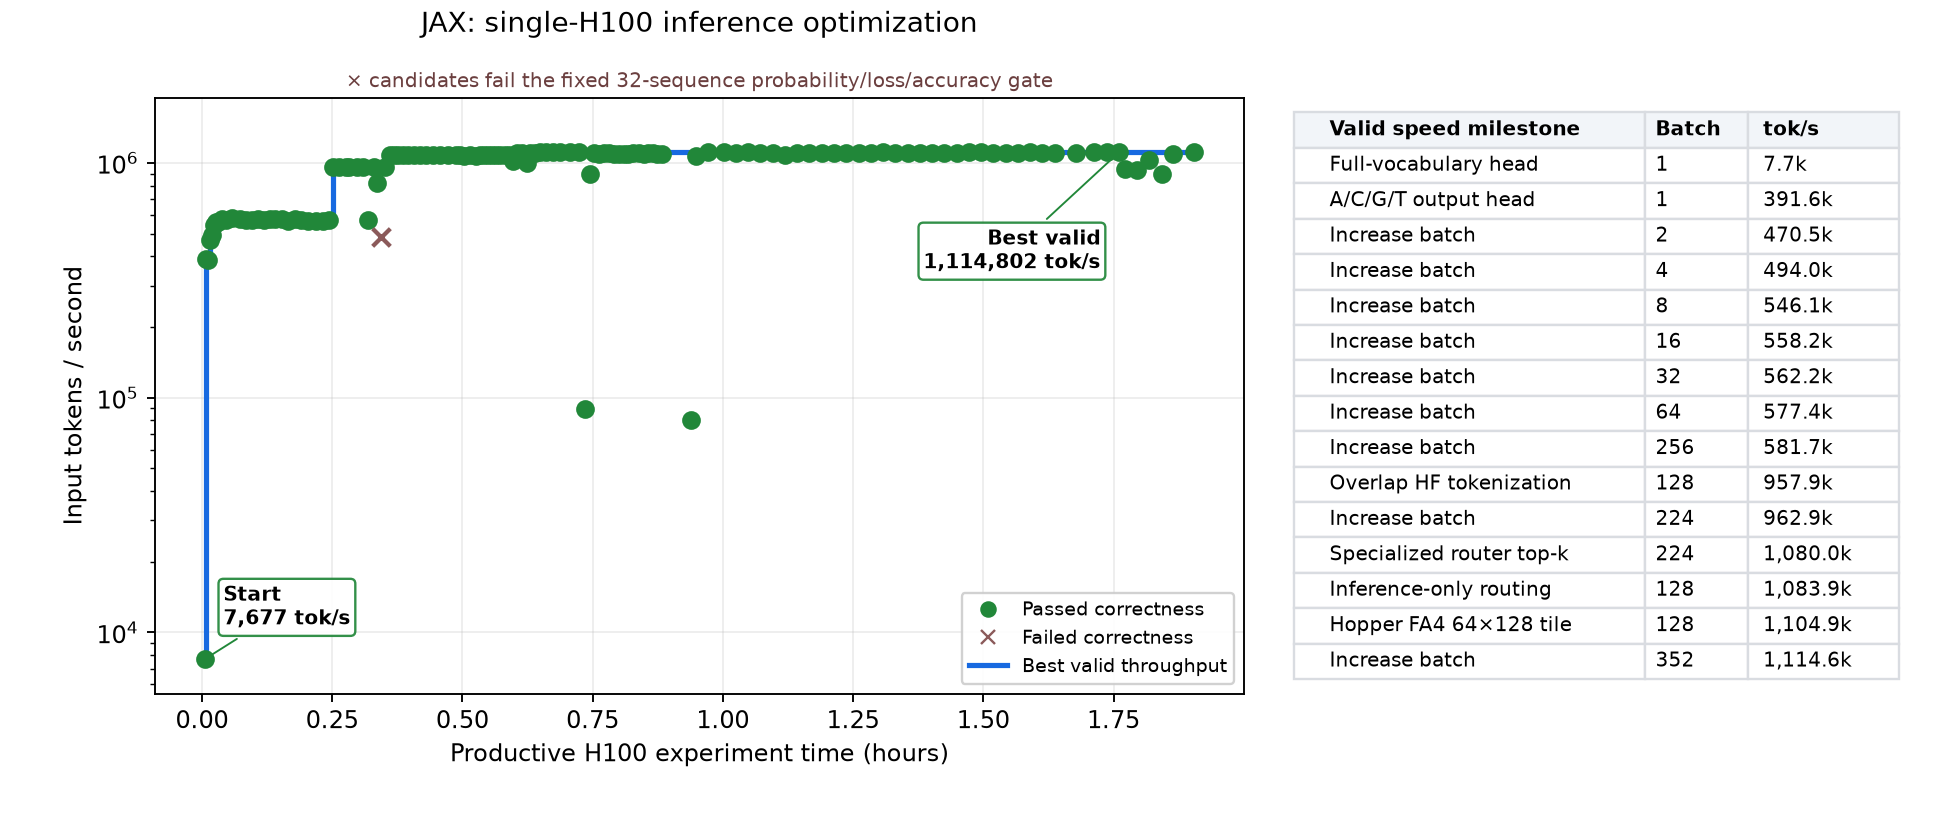
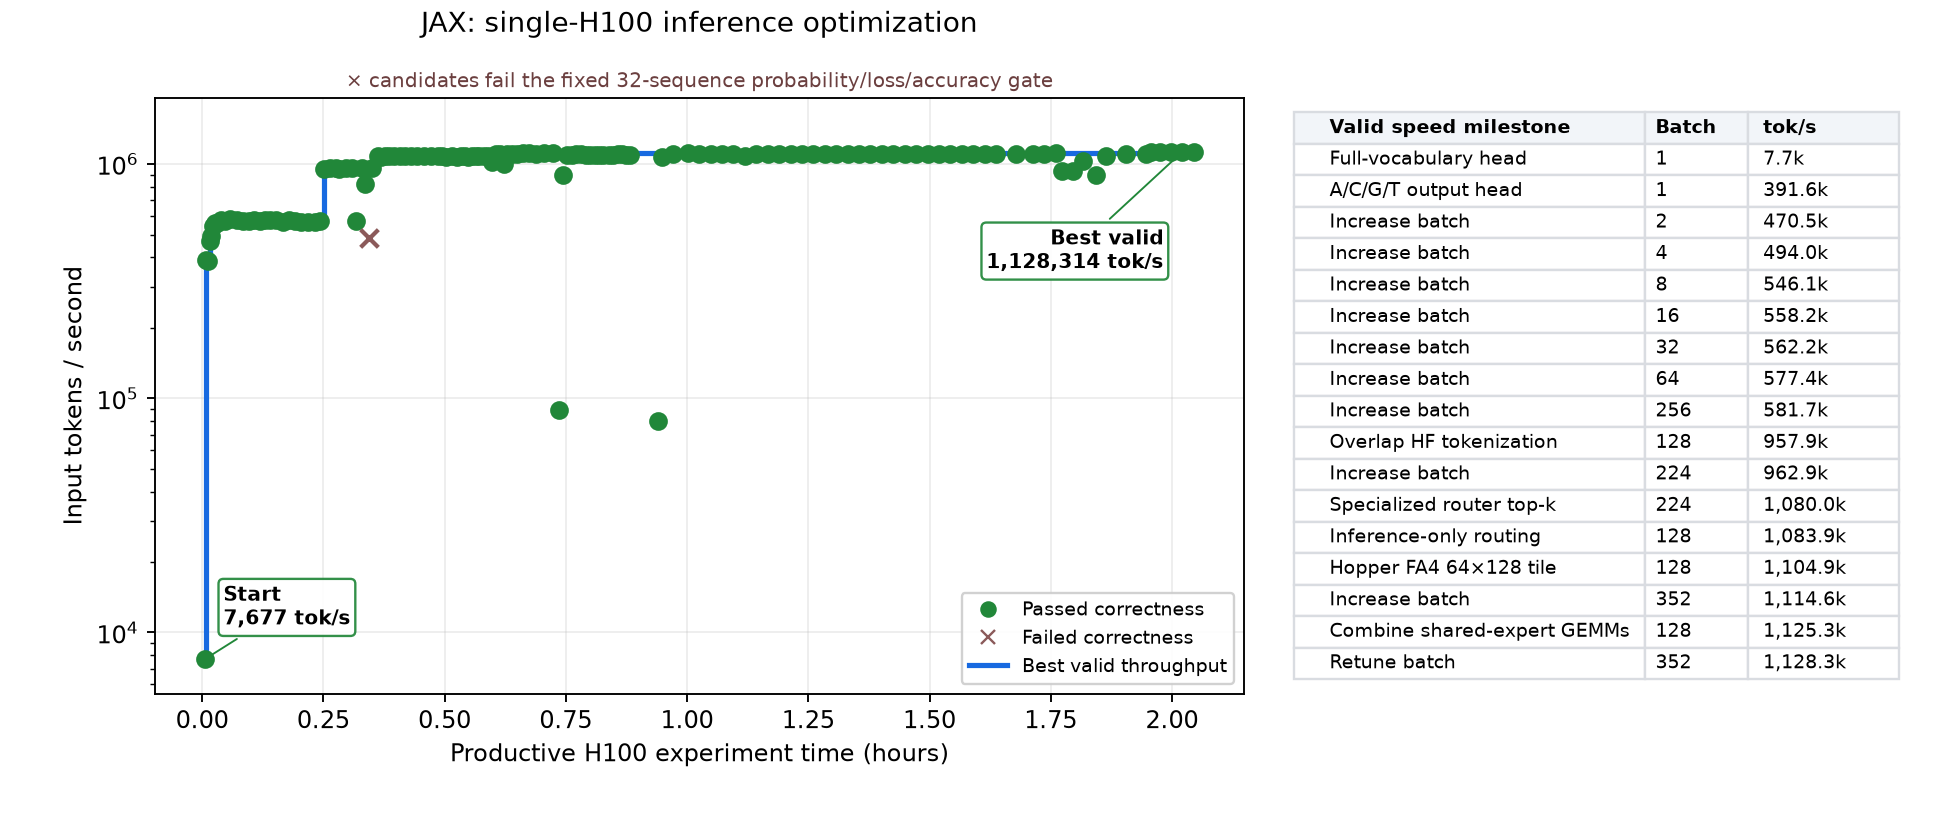
Record JAX shared projection sweep

diff --git a/experiments/exp586_plantcad2_moe/src/exp586_moe/inference/plot_progress.py b/experiments/exp586_plantcad2_moe/src/exp586_moe/inference/plot_progress.py
@@ -28,6 +28,8 @@ _DISPLAY_NAMES = {
     "jax-no-router-stats-b128": "Inference-only routing",
     "jax-latest-fa4-64x128-b128": "Hopper FA4 64×128 tile",
     "jax-latest-fa4-64x128-b352": "Increase batch",
+    "JAX-r6-combined-shared-b128": "Combine shared-expert GEMMs",
+    "JAX-r6-combined-shared-b352": "Retune batch",
     "full-vocab-eager-validated": "Full-vocabulary eager",
     "native-grouped-moe": "Grouped MoE kernels",
     "compiled-grouped-moe": "Compile model",
